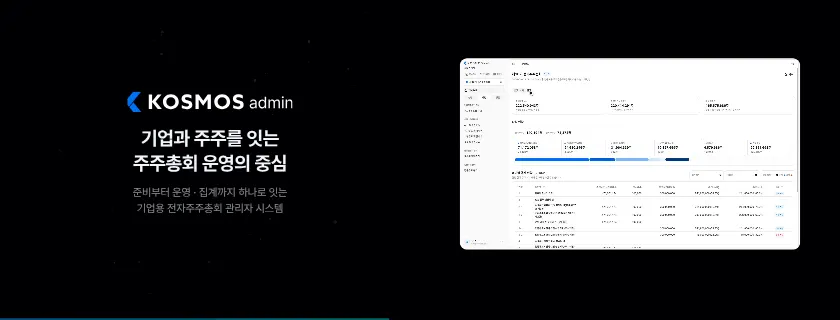
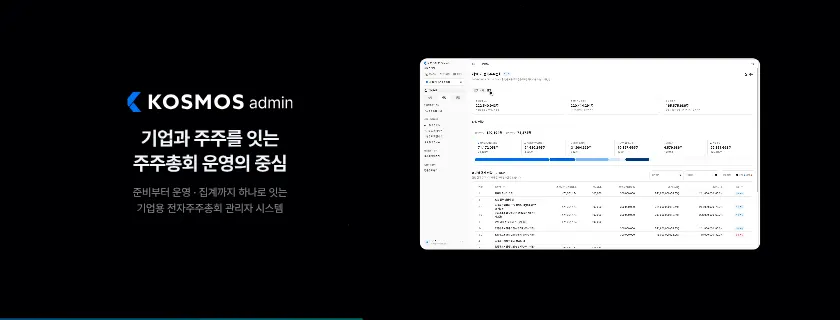
session4 K18a · K18b · K18c: 오른쪽 서비스 화면(KISM · KOSMOS admin 영상 카드)과 KOSMOS 휴대폰 2대를 왼쪽으로 200px — 오른쪽 여백 400px
Claude-Session: https://claude.ai/code/session_01Mn7NmyW5iujmmHnaRBFKBZ

diff --git a/sw.js b/sw.js
@@ -1,5 +1,5 @@
 /* 오프라인 캐시 — 온라인 주소(https)로 한 번 열면 모든 파일을 저장해 두고, 통신이 끊겨도 저장본으로 동작합니다. */
-const V='seminar-screen-11262128';
+const V='seminar-screen-11262131';
 const FILES=["./","assets/KakaoBigSans-Bold.woff2","assets/KakaoBigSans-Regular.woff2","assets/KakaoSmallSans-Bold.woff2","assets/KakaoSmallSans-Light.woff2","assets/KakaoSmallSans-Regular.woff2","assets/OrbitControls.js","assets/PretendardVariable.woff2","assets/attendees.js","assets/blue-bloom.html","assets/cong1.webp","assets/cong2.webp","assets/ds-bg.html","assets/four-states.html","assets/intro.mp4","assets/irk-white.svg","assets/irk-wordmark-white.svg","assets/kism-intro.mp4","assets/kism-white.svg","assets/ksmp-white.svg","assets/panel.js","assets/qa-online.js","assets/s2/img1.png","assets/s2/img2.png","assets/s2/img3.png","assets/s2/img4.png","assets/s4/aws.webp","assets/s4/callcenter.webp","assets/s4/chair-1.webp","assets/s4/chair-2.webp","assets/s4/chair-3.webp","assets/s4/conexus-word.webp","assets/s4/ctl-1.webp","assets/s4/cx-1.webp","assets/s4/cx-2.webp","assets/s4/cx-3.webp","assets/s4/cx-flow.mp4","assets/s4/cx-pop1.webp","assets/s4/cx-pop2.webp","assets/s4/cx-vote.mp4","assets/s4/cx-vote.webp","assets/s4/cxs-1.webp","assets/s4/insurance.webp","assets/s4/isms-t.webp","assets/s4/isms.webp","assets/s4/ismsp-t.webp","assets/s4/ismsp.webp","assets/s4/kosmos-white.png","assets/s4/ks-1.webp","assets/s4/ks-2.webp","assets/s4/ks-3.webp","assets/s4/ks-4.webp","assets/s4/ks-5.webp","assets/s4/ks-video.webp","assets/s4/live-1.webp","assets/s4/live-2.webp","assets/s4/live-3.webp","assets/s4/live-4.webp","assets/s4/live-5.webp","assets/s4/live-6.webp","assets/s4/live-7.webp","assets/s4/live-8.webp","assets/s4/logos.webp","assets/s4/ocr-1.webp","assets/s4/ocr-2.webp","assets/s4/ocr-3.webp","assets/s4/ocr-4.webp","assets/s4/ocr-5.webp","assets/s4/on-1.png","assets/s4/on-2.webp","assets/s4/on-3.webp","assets/s4/on-4.png","assets/s4/on-5.webp","assets/s4/onboard-1.webp","assets/s4/onboard-2.webp","assets/s4/privacy.webp","assets/s4/proxymity.svg","assets/s4/rehearsal.webp","assets/s4/streaming-korea.webp","assets/s4/tab-1.webp","assets/s4/tab-2.webp","assets/s4/team.webp","assets/sched.js","assets/screen-title-2.svg","assets/screen-title-b-text.svg","assets/screen-title-b.svg","assets/seat-banners.js","assets/seat-fascia.js","assets/seat-screen.js","assets/seatmap.js","assets/service-intro.mp4","assets/speaker-scott.webp","assets/speaker1-1.webp","assets/speaker2.webp","assets/speaker3-1.webp","assets/supabase.min.js","assets/three.min.js","assets/title-logos.svg","control.html","index-fs.html","index.html","kism.html","lobby/cuts.html","lobby/index.html","mc.html","session2.html","session4.html","sw.js","tools/s2_build.py","tools/s2_shell.html","assets/s3/p01.webp","assets/s3/p02.webp","assets/s3/p03.webp","assets/s3/p04.webp","assets/s3/p05.webp","assets/s3/p06.webp","assets/s3/p07.webp","assets/s3/p08.webp","assets/s3/p09.webp","assets/s3/p10.webp","assets/s3/p11.webp","assets/s3/p12.webp","assets/s3/p13.webp","assets/s3/p14.webp","assets/s3/p15.webp","assets/s3/p16.webp","assets/s3/p17.webp","assets/s3/p18.webp","assets/s3/p19.webp","assets/s3/p20.webp","assets/s3/p21.webp","assets/s3/p22.webp","assets/s3/p23.webp","assets/kism/photo-main.webp","assets/kism/photo-2.webp","assets/kism/photo-3.webp","assets/kism/photo-4.webp","assets/sound/countdown-tick.mp3","assets/sound/sfx-s3-part.mp3","assets/sound/sfx-s4-reveal.mp3","assets/sound/sfx-s5-proxymity.mp3","assets/sound/sfx-s6-chime.mp3","assets/sound/sfx-s7-close.mp3","assets/sound/opening-hit.mp3","assets/s4/kosmos-color.svg","assets/s4/ke-logo.png","assets/s4/ke-live.mp4","assets/kism/kwon-talk.mp4","assets/kism/manual-book.webp","kism-open.html","kism_16x9.html","led.html","assets/s4/cx-ops.mp4","assets/s4/cx-ops.webp","assets/s4/agent-app.mp4","assets/s4/agent-app.webp","assets/s4/k24b-bg.webp","session0.html","face.html","assets/face-link.js","assets/kism/photo-main-cut.webp","assets/s4/cx-chair.mp4","assets/s4/cx-chair.webp","assets/s4/cx-test.mp4","assets/s4/cx-test.webp","assets/s4/onboard-mgr.webp","assets/s4/proxymity-logo.png","assets/s4/k21-bg.webp","assets/s4/kosmos-admin-white.svg","assets/kism-intro-16x9.mp4","assets/seat-guide.html","assets/s4/app-icon-agent.svg","assets/ds-main.mp4","assets/s4/k2-agency.webp","assets/s4/k2-support.webp","assets/s4/thumbs/K00.webp","assets/s4/thumbs/K01.webp","assets/s4/thumbs/K02.webp","assets/s4/thumbs/K03.webp","assets/s4/thumbs/K04.webp","assets/s4/thumbs/K05.webp","assets/s4/thumbs/K06.webp","assets/s4/thumbs/K07.webp","assets/s4/thumbs/K08.webp","assets/s4/thumbs/K09.webp","assets/s4/thumbs/K10.webp","assets/s4/thumbs/K11.webp","assets/s4/thumbs/K12.webp","assets/s4/thumbs/K13.webp","assets/s4/thumbs/K14.webp","assets/s4/thumbs/K15.webp","assets/s4/thumbs/K16.webp","assets/s4/thumbs/K17.webp","assets/s4/thumbs/K18a.webp","assets/s4/thumbs/K18b.webp","assets/s4/thumbs/K18c.webp","assets/s4/thumbs/K19.webp","assets/s4/thumbs/K19b.webp","assets/s4/thumbs/K19c.webp","assets/s4/thumbs/K20.webp","assets/s4/thumbs/K21.webp","assets/s4/thumbs/K21b.webp","assets/s4/thumbs/K22s.webp","assets/s4/thumbs/K23.webp","assets/s4/thumbs/K23b.webp","assets/s4/thumbs/K24a.webp","assets/s4/thumbs/K24b.webp","assets/s4/thumbs/K24c.webp","assets/s4/thumbs/K25.webp","assets/s4/thumbs/K25b.webp","assets/s4/thumbs/K26.webp","assets/s4/thumbs/K27.webp","assets/s4/thumbs/K28a.webp","assets/s4/thumbs/K28b.webp","assets/s4/thumbs/K28c.webp","assets/s4/thumbs/K28d.webp","assets/s4/thumbs/K29.webp","assets/s4/thumbs/K30.webp","assets/s4/thumbs/K09b.webp","assets/s4/thumbs/K28e.webp","assets/s4/onsite-vote.mp4","assets/s4/onsite-vote.webp"];
 self.addEventListener('install',e=>{e.waitUntil(caches.open(V).then(c=>c.addAll(FILES)).then(()=>self.skipWaiting()));});
 self.addEventListener('activate',e=>{e.waitUntil(caches.keys().then(ks=>Promise.all(ks.filter(k=>k!==V).map(k=>caches.delete(k)))).then(()=>self.clients.claim()));});
